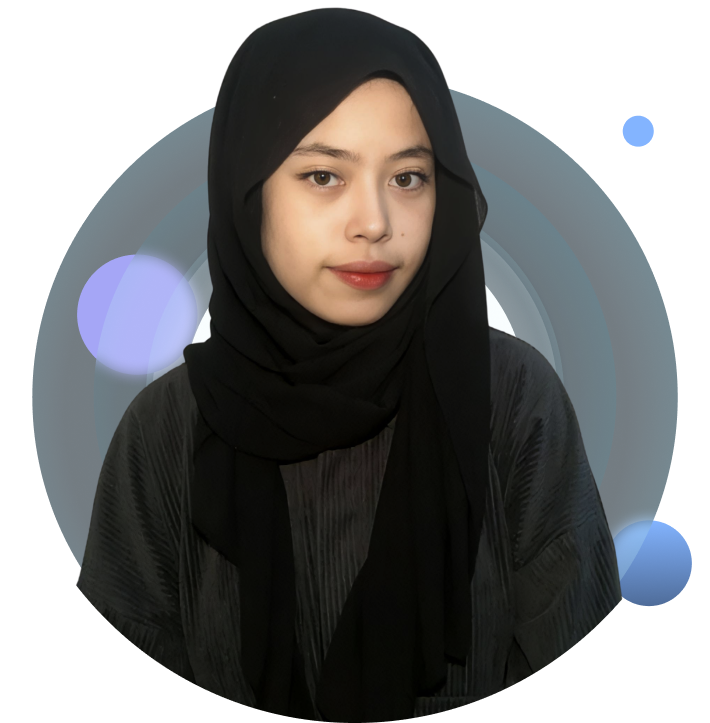
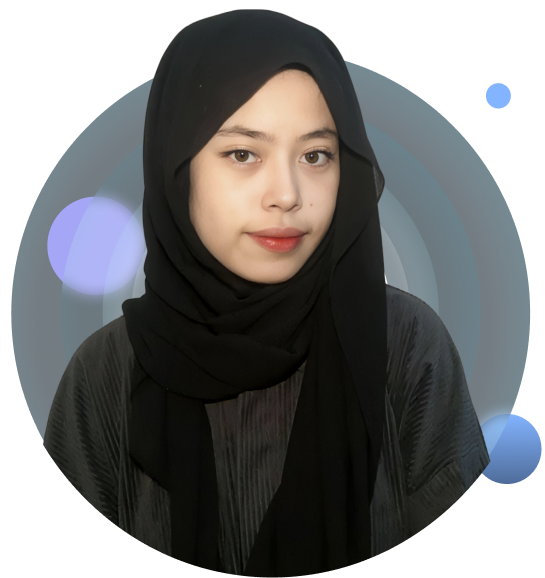
change photo & edit jumbotron

diff --git a/src/components/jumbotron.js b/src/components/jumbotron.js
@@ -21,7 +21,7 @@ export default function Jumbotron() {
           </div>
           <img
             src={profile}
-            className="w-full items-center mb-4 rounded-lg mt-10"
+            className="w-full items-center mb-4 rounded-lg mt-4"
             alt="Info Logo"
           />
         </div>
